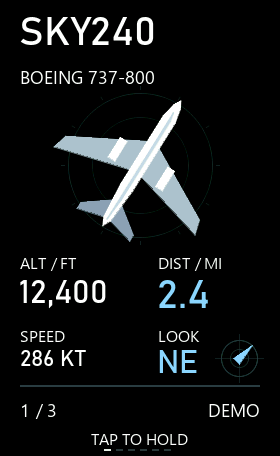
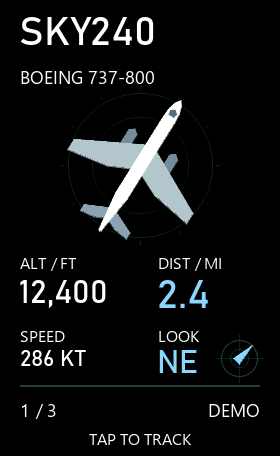
Draw class-specific aircraft silhouettes
Replace the three generic shapes with nine plan-view silhouettes built from
mirrored half outlines: narrow-body, wide-body, four-engine and regional jets,
business jet, twin and four-engine turboprops, light single prop and a
helicopter with tail boom, skids and rotor. Under-wing engines sit ahead of the
wing; props, T-tails and aft engine pods follow each class. Service styling
(military, police, rescue, fire) works on every shape.

silhouette() now classifies roughly 200 ICAO type codes and falls back to the
ADS-B emitter category. This fixes the C-130 (was a light single prop), King Air
and ATR (now twin turboprops) and Citations (now business jets). Tests cover
every class and the fallback. README gains a short note, an overview image and a
refreshed flight screenshot.

diff --git a/firmware/WidgetDeck/src/widgets/flight/sky_draw.h b/firmware/WidgetDeck/src/widgets/flight/sky_draw.h
@@ -5,6 +5,13 @@
 namespace sky {
 using ui::rgb;using ui::Point;using ui::Font;using ui::fontSmall;using ui::fontBody;using ui::fontHeading;using ui::fontNumber;using ui::fontTitle;
 static const uint16_t White=rgb(255,255,255),Muted=rgb(115,143,151),Dim=rgb(41,62,69),Accent=rgb(140,213,255);
+// Right-half wing/stabilizer outline: root at x=rx, leading/trailing edge y at the
+// root, tip and a trailing-edge kink. Used for planform drawing and service bands.
+struct PlanWing {
+  float rx,le0,tx,tle,tte,kx,kte,te0;
+  float le(float x)const{return le0+(tle-le0)*(x-rx)/(tx-rx);}
+  float te(float x)const{return x<kx?te0+(kte-te0)*(x-rx)/(kx-rx):kte+(tte-kte)*(x-kx)/(tx-kx);}
+};
 class Canvas:public ui::Canvas {
  public:
   using ui::Canvas::Canvas;
@@ -35,50 +42,85 @@ class Canvas:public ui::Canvas {
     }
   }
   void plane(int kind,Role service=Role::Standard,float cx=140) {
-    // Category silhouettes, deliberately not presented as exact model drawings.
-    // Keep the large illustration composed consistently; the radar shows actual bearing.
-    float angle=32*float(Pi)/180;
-    auto shape=[&](const Point *pts,int n,uint16_t c){Point p[48];for(int i=0;i<n;i++)p[i]={cx+pts[i].x*cosf(angle)-pts[i].y*sinf(angle),165+pts[i].x*sinf(angle)+pts[i].y*cosf(angle)};polygon(p,n,c);};
+    // Plan-view silhouettes of each aircraft class (proportions follow typical
+    // types, but they are class drawings, not exact models). Every shape is built
+    // from a mirrored half outline so it stays symmetric. The radar shows bearing.
+    const float angle=32*float(Pi)/180,ca=cosf(angle),sa=sinf(angle);
+    auto rot=[&](float x,float y)->Point{return {cx+x*ca-y*sa,165+x*sa+y*ca};};
+    auto shape=[&](const Point *pts,int n,uint16_t c){Point p[48];for(int i=0;i<n;i++)p[i]=rot(pts[i].x,pts[i].y);polygon(p,n,c);};
+    auto mirror=[&](const Point *half,int n,uint16_t c){Point p[48];for(int i=0;i<n;i++){p[i]=half[i];p[2*n-1-i]={-half[i].x,half[i].y};}shape(p,2*n,c);};
+    auto stroke=[&](float x0,float y0,float x1,float y1,uint16_t c,int alpha=255){Point a=rot(x0,y0),b=rot(x1,y1);line(a.x,a.y,b.x,b.y,c,alpha);};
     bool special=service!=Role::Standard;
     uint16_t color=serviceColor(service),bodyColor=service==Role::Military?rgb(164,183,137):White;
-    uint16_t wingColor=service==Role::Military?rgb(119,140,108):rgb(178,201,208);
+    uint16_t wingColor=service==Role::Military?rgb(119,140,108):rgb(176,199,207);
+    uint16_t tailColor=special?color:rgb(136,163,176),engineColor=rgb(118,143,155),glassColor=rgb(84,112,125);
     auto marking=[&](float x,float y){
       if(service==Role::Military){Point star[10];for(int i=0;i<10;i++){float t=i*float(Pi)/5-float(Pi)/2,r=i%2?2.4f:5.8f;star[i]={x+cosf(t)*r,y+sinf(t)*r};}shape(star,10,White);}
       else if(service==Role::Rescue){const Point cross[]={{x-1.6f,y-5},{x+1.6f,y-5},{x+1.6f,y-1.6f},{x+5,y-1.6f},{x+5,y+1.6f},{x+1.6f,y+1.6f},{x+1.6f,y+5},{x-1.6f,y+5},{x-1.6f,y+1.6f},{x-5,y+1.6f},{x-5,y-1.6f},{x-1.6f,y-1.6f}};shape(cross,12,White);}
     };
     if(kind==2) {
-      const Point body[]={{0,-39},{10,-29},{12,-8},{7,13},{3,56},{-3,56},{-7,13},{-12,-8},{-10,-29}};
-      const Point rotor[]={{-76,-2.5f},{-76,2.5f},{76,2.5f},{76,-2.5f}};
-      const Point tail[]={{-20,48},{20,48},{20,51},{-20,51}};
-      if(special)for(int side:{-1,1}){Point skid[]={{float(side*18-1),-24},{float(side*18+1),-24},{float(side*18+1),22},{float(side*18-1),22}};shape(skid,4,wingColor);}
-      shape(tail,4,special?color:Muted);shape(body,9,bodyColor);
+      // Helicopter: cabin, tail boom, skids, tail rotor and a spinning main rotor.
+      const Point cabin[]={{0,-38},{6,-35},{9.5f,-26},{10,-8},{8,6},{4,18},{2.6f,24}};
+      const Point boom[]={{2.6f,18},{2.2f,58},{-2.2f,58},{-2.6f,18}};
+      const Point fin[]={{2.2f,48},{9,56},{9,60},{2.2f,58}};
+      for(int side:{-1,1}){stroke(side*13.f,-26,side*13.f,12,special?wingColor:Muted);stroke(side*13.f,-6,side*9.f,-6,Muted);}
+      mirror(cabin,7,bodyColor);shape(boom,4,bodyColor);shape(fin,4,tailColor);
+      stroke(7,50,7,66,Muted);
+      Point hub=rot(0,-6);circle(hub.x,hub.y,56,Muted,60);
+      {const float ux=.88f,uy=.47f,nx=-uy*1.7f,ny=ux*1.7f;
+       const Point blade[]={{-ux*54+nx,-6-uy*54+ny},{ux*54+nx,-6+uy*54+ny},{ux*54-nx,-6+uy*54-ny},{-ux*54-nx,-6-uy*54-ny}};shape(blade,4,Muted);}
       if(special){
-        const Point panel[]={{-9,-25},{9,-25},{11,-8},{-11,-8}};shape(panel,4,color);
-        const Point glass[]={{-5,-31},{0,-36},{5,-31},{7,-26},{-7,-26}};shape(glass,5,Dim);
-        if(service==Role::Fire){const Point tank[]={{-12,7},{12,7},{10,22},{-10,22}};shape(tank,4,color);}
-        marking(0,-17);
+        const Point panel[]={{-8,-22},{8,-22},{9,-8},{-9,-8}};shape(panel,4,color);
+        const Point glass[]={{-5,-33},{0,-37},{5,-33},{6,-27},{-6,-27}};shape(glass,5,glassColor);
+        if(service==Role::Fire){const Point tank[]={{-9,0},{9,0},{7,14},{-7,14}};shape(tank,4,color);}
+        marking(0,-15);
       }
-      shape(rotor,4,Muted);circle(cx,165,5,special?color:Accent);
-    } else if(kind==1) {
-      const Point body[]={{0,-61},{5,-49},{7,24},{3,61},{-3,61},{-7,24},{-5,-49}};
-      const Point wings[]={{-70,-15},{70,-15},{70,0},{-70,0}};
-      const Point tail[]={{-27,42},{27,42},{27,50},{-27,50}};
-      shape(wings,4,wingColor);shape(tail,4,special?color:Muted);shape(body,7,bodyColor);
-      if(special){
-        for(int side:{-1,1}){float x=side*47;Point band[]={{x-9,-15},{x+9,-15},{x+9,0},{x-9,0}};shape(band,4,color);marking(x,-7.5f);}
-        const Point stripe[]={{-6,14},{6,14},{5,28},{-5,28}};shape(stripe,4,color);
-      }
-      const Point prop[]={{-22,-54},{22,-54},{22,-52},{-22,-52}};shape(prop,4,Muted);
-    } else {
-      const Point wings[]={{-7,-24},{-79,15},{-83,30},{-6,9},{6,9},{83,30},{79,15},{7,-24}};
-      const Point tail[]={{-4,43},{-31,63},{-31,70},{0,62},{31,70},{31,63},{4,43}};
-      const Point body[]={{0,-76},{4,-69},{7,-54},{7,26},{4,63},{0,71},{-4,63},{-7,26},{-7,-54},{-4,-69}};
-      shape(wings,8,special?wingColor:rgb(168,194,204));shape(tail,7,special?color:rgb(136,163,176));
-      if(special)for(int side:{-1,1}){Point band[]={{float(side*37),-7},{float(side*58),4},{float(side*61),24},{float(side*40),18}};shape(band,4,color);marking(side*47,8);}
-      for(int side:{-1,1}){Point engine[]={{float(side*28-4),-13},{float(side*28+4),-13},{float(side*28+4),10},{float(side*28-4),10}};shape(engine,4,bodyColor);}
-      shape(body,10,bodyColor);const Point seam[]={{0,-62},{2,-53},{2,40},{0,63}};shape(seam,4,special?color:rgb(196,216,224));
-      if(special){const Point stripe[]={{-7,13},{7,13},{7,26},{-7,26}};shape(stripe,4,color);}
+      circle(hub.x,hub.y,5,special?color:Accent);
+      return;
     }
+    // Fixed-wing classes. Wing/stabilizer outlines give the right half; y grows
+    // toward the tail. Table order matches silhouette() in sky_data.h.
+    struct Nacelle{float x,y0,y1,r;bool prop;};
+    struct Spec{float hw,nose,tail,noseLen,tailLen,tip;PlanWing wing,stab;bool tTail;float noseProp;int nacelles;Nacelle nacelle[2];};
+    static const Spec specs[]={
+      /*0 narrow-body jet*/{6.5f,-76,76,22,40,1.4f,{6.5f,-20,70,13,25,28,18,8},{3,52,27,63,70,12,68,64},false,0,1,{{24,-28,-3,4.8f,false}}},
+      /*1 light single prop*/{6.f,-44,46,12,30,1.f,{4.8f,-14,58,-12,3,30,3.5f,4},{2,34,19,38,44,8,43,42},false,13,0,{}},
+      /*2 helicopter (drawn above)*/{},
+      /*3 wide-body twin jet*/{9,-86,90,26,48,1.6f,{9,-20,78,24,40,32,31,16},{4,60,30,76,84,14,80,78},false,0,1,{{28,-33,0,6.4f,false}}},
+      /*4 four-engine jet*/{9.5f,-90,92,26,50,1.6f,{9.5f,-22,80,32,50,36,38,22},{4,62,32,78,88,14,82,80},false,0,2,{{26,-34,-3,5.4f,false},{50,-16,13,5.2f,false}}},
+      /*5 regional jet*/{5.2f,-62,62,18,34,1.2f,{5.2f,-12,47,5,17,18,13,8},{2.2f,47,19,53,60,8,57,56},true,0,1,{{10.5f,24,46,4.f,false}}},
+      /*6 business jet*/{4.4f,-50,50,15,28,1.f,{4.4f,-8,42,10,21,16,15,8},{2,36,17,41,47,6,45,44},true,0,1,{{8.2f,18,36,3.4f,false}}},
+      /*7 twin turboprop*/{5.5f,-60,60,16,34,1.3f,{5.5f,-12,60,-8,3,24,7,8},{2.5f,46,24,50,57,10,56,54},true,0,1,{{22,-30,8,4.2f,true}}},
+      /*8 four-engine turboprop*/{8,-66,70,18,36,3,{8,-14,72,-10,8,28,10,6},{3,52,26,58,68,12,64,62},true,0,2,{{24,-32,4,4.4f,true},{44,-30,6,4.4f,true}}}
+    };
+    const Spec &s=specs[kind>=0&&kind<9&&kind!=2?kind:0];
+    auto wingShape=[&](const PlanWing &w,uint16_t c){const Point h[5]={{w.rx,w.le0},{w.tx,w.tle},{w.tx,w.tte},{w.kx,w.kte},{w.rx,w.te0}};mirror(h,5,c);};
+    auto nacelles=[&](){
+      for(int i=0;i<s.nacelles;i++)for(int side:{-1,1}){
+        const Nacelle &n=s.nacelle[i];float x=side*n.x;
+        const Point pod[]={{x-n.r,n.y0+n.r*.8f},{x,n.y0},{x+n.r,n.y0+n.r*.8f},{x+n.r,n.y1},{x-n.r,n.y1}};
+        shape(pod,5,engineColor);
+        if(n.prop)stroke(x-n.r*2.f,n.y0-1,x+n.r*2.f,n.y0-1,Muted);
+      }
+    };
+    const bool under=kind==0||kind==3||kind==4;  // under-wing jet engines only show ahead of the wing
+    if(!s.tTail)wingShape(s.stab,tailColor);
+    if(under)nacelles();
+    wingShape(s.wing,wingColor);
+    if(special){ // service-colored wing bands and markings
+      float x0=s.wing.rx+(s.wing.tx-s.wing.rx)*.45f,x1=s.wing.rx+(s.wing.tx-s.wing.rx)*.8f;
+      for(int side:{-1,1}){const Point band[]={{side*x0,s.wing.le(x0)},{side*x1,s.wing.le(x1)},{side*x1,s.wing.te(x1)},{side*x0,s.wing.te(x0)}};shape(band,4,color);}
+      float xm=(x0+x1)/2,ym=(s.wing.le(xm)+s.wing.te(xm))/2;marking(-xm,ym);marking(xm,ym);
+    }
+    if(!under)nacelles();
+    const Point body[]={{0,s.nose},{s.hw*.5f,s.nose+s.noseLen*.18f},{s.hw*.88f,s.nose+s.noseLen*.55f},{s.hw,s.nose+s.noseLen},{s.hw,s.tail-s.tailLen},{s.tip,s.tail},{0,s.tail+1}};
+    mirror(body,7,bodyColor);
+    if(s.tTail)wingShape(s.stab,tailColor);
+    if(s.noseProp>0)stroke(-s.noseProp,s.nose-2,s.noseProp,s.nose-2,Muted);
+    // Cockpit windscreen marks the nose.
+    const Point glass[]={{-s.hw*.55f,s.nose+s.noseLen*.62f},{0,s.nose+s.noseLen*.5f},{s.hw*.55f,s.nose+s.noseLen*.62f},{s.hw*.4f,s.nose+s.noseLen*.8f},{-s.hw*.4f,s.nose+s.noseLen*.8f}};
+    shape(glass,5,glassColor);
+    if(special){const float y=s.wing.te0+6;const Point stripe[]={{-s.hw,y},{s.hw,y},{s.hw,y+9},{-s.hw,y+9}};shape(stripe,4,color);}
   }
   void radar(float bearing) {
     int cx=239,cy=358;circle(cx,cy,18,Dim);circle(cx,cy,9,Dim,140);

diff --git a/firmware/WidgetDeck/src/widgets/flight/sky_data.h b/firmware/WidgetDeck/src/widgets/flight/sky_data.h
@@ -6,6 +6,7 @@
 #include <string.h>
 #include <stdlib.h>
 #include <algorithm>
+#include <initializer_list>
 
 namespace sky {
 constexpr int Width=280, Height=456, MaxAircraft=24;
@@ -52,17 +53,27 @@ inline const char *model(const Aircraft &a) {
   for(const auto &m:models)if(!strcmp(a.type,m.code))return m.name;
   return a.type[0]?a.type:"AIRCRAFT TYPE UNKNOWN";
 }
+// Silhouette classes, in the order drawn by Canvas::plane().
+enum Shape { NarrowJet=0, LightProp=1, Helicopter=2, WideJet=3, QuadJet=4, RegionalJet=5, BusinessJet=6, Turboprop=7, Transport=8 };
+inline bool typeIn(const Aircraft &a,std::initializer_list<const char *> types) {
+  for(const char *type:types)if(!strcmp(a.type,type))return true;
+  return false;
+}
 inline int silhouette(const Aircraft &a) {
-  if(!strcmp(a.category,"A7"))return 2;
-  static const char *helicopters[]={"R22","R44","R66","AS50","AS55","AS65","EC30","EC35","EC45","H145","H60","S70","S76","S92","S64","B06","B407","B412","B429","B430","B212","B205","B47","H47","H53","A109","A119","A139","A169","A189","MD52","MD60"};
-  for(const char *type:helicopters)if(!strcmp(a.type,type))return 2;
-  static const char *props[]={"C150","C152","C172","C182","C206","C208","C210","C310","C340","C414","C421","SR20","SR22","PC12","PC6","BE20","BE30","BE9L","BE10","BE58","C130","C30J","P3","DHC6","DH8A","DH8B","DH8C","DH8D","AT43","AT45","AT46","AT72","AT73","AT75","AT76","GA8","PA28","PA31","PA32","PA34","PA46","AT8T","CL2T"};
-  for(const char *type:props)if(!strcmp(a.type,type))return 1;
-  // A1 means light weight, which can also be a jet (e.g. a Citation).
-  static const char *lightJets[]={"C510","C525","C25A","C25B","C25C","EA50","SF50","HDJT"};
-  for(const char *type:lightJets)if(!strcmp(a.type,type))return 0;
-  if(!strcmp(a.category,"A1"))return 1;
-  return 0;
+  if(!strcmp(a.category,"A7"))return Helicopter;
+  if(typeIn(a,{"R22","R44","R66","AS50","AS55","AS65","EC30","EC35","EC45","H145","H60","S70","S76","S92","S64","B06","B407","B412","B429","B430","B212","B205","B47","H47","H53","A109","A119","A139","A169","A189","MD52","MD60"}))return Helicopter;
+  if(typeIn(a,{"B741","B742","B743","B744","B74S","B748","A342","A343","A345","A346","A388","A124","IL96","IL76","C17","K35R","B52","B703"}))return QuadJet;
+  if(typeIn(a,{"C130","C30J","P3","L100","A400","AN12"}))return Transport;
+  if(typeIn(a,{"A306","A30B","A310","A332","A333","A338","A339","A359","A35K","B762","B763","B764","B772","B773","B77L","B77W","B788","B789","B78X","MD11","DC10","L101"}))return WideJet;
+  if(typeIn(a,{"E135","E145","E170","E75L","E75S","E175","E190","E195","E290","E295","CRJ1","CRJ2","CRJ7","CRJ9","CRJX"}))return RegionalJet;
+  if(typeIn(a,{"C25A","C25B","C25C","C25M","C500","C501","C510","C525","C550","C560","C56X","C680","C68A","C700","C750","CL30","CL35","CL60","GLF2","GLF3","GLF4","GLF5","GLF6","GALX","G150","G280","FA10","FA20","FA50","FA7X","FA8X","F900","F2TH","LJ31","LJ35","LJ40","LJ45","LJ55","LJ60","LJ70","LJ75","E50P","E55P","EA50","SF50","HDJT","H25A","H25B","PRM1","ASTR","BE40","PC24"}))return BusinessJet;
+  if(typeIn(a,{"AT43","AT44","AT45","AT46","AT72","AT73","AT75","AT76","DH8A","DH8B","DH8C","DH8D","SF34","JS31","JS32","JS41","B190","BE20","BE30","BE9L","BE10","BE99","SW4","E120","DHC6","D328","F50","F27","BE58","PA31","PA34","C310","C340","C414","C421","DA42","P180"}))return Turboprop;
+  if(typeIn(a,{"C150","C152","C172","C182","C206","C208","C210","SR20","SR22","PC12","PC6","GA8","PA28","PA32","PA46","AT8T","CL2T"}))return LightProp;
+  // No known type: use the ADS-B emitter category (A1 light, A2 small, A3 large, A4 high-vortex, A5 heavy).
+  if(!strcmp(a.category,"A1"))return LightProp;
+  if(!strcmp(a.category,"A2"))return RegionalJet;
+  if(!strcmp(a.category,"A5"))return WideJet;
+  return NarrowJet;
 }
 inline const char *callsign(const Aircraft &a) {return a.flight[0]?a.flight:a.registration[0]?a.registration:a.hex;}
 

diff --git a/tests/sky_test.cpp b/tests/sky_test.cpp
@@ -87,9 +87,20 @@ int main(int argc,char **argv) {
   assert(role(identitySample("\"emergency\":7700"))==Role::Standard);
   assert(!airline(identitySample("\"flight\":\"UAL12\",\"dbFlags\":1")));
   assert(!airline(identitySample("\"flight\":\"UAL12\",\"emergency\":\"lifeguard\"")));
-  for(const char *type:{"B06","EC45","H60","S70"}){Aircraft a;strcpy(a.type,type);assert(silhouette(a)==2);}
-  for(const char *type:{"C206","GA8","BE20","C130","AT8T"}){Aircraft a;strcpy(a.type,type);assert(silhouette(a)==1);}
-  Aircraft lightJet;strcpy(lightJet.type,"C510");strcpy(lightJet.category,"A1");assert(silhouette(lightJet)==0);
+  auto shapeOf=[](const char *type,const char *category=""){Aircraft a;strcpy(a.type,type);strcpy(a.category,category);return silhouette(a);};
+  for(const char *type:{"B06","EC45","H60","S70"})assert(shapeOf(type)==Helicopter);
+  assert(shapeOf("","A7")==Helicopter);
+  for(const char *type:{"C206","GA8","AT8T","C172","SR22","PC12"})assert(shapeOf(type)==LightProp);
+  for(const char *type:{"B738","A320","A21N","B752","B38M"})assert(shapeOf(type)==NarrowJet);
+  for(const char *type:{"B77W","B789","A359","A333","B763"})assert(shapeOf(type)==WideJet);
+  for(const char *type:{"B744","B748","A388","C17"})assert(shapeOf(type)==QuadJet);
+  for(const char *type:{"E175","CRJ7","E190","E145"})assert(shapeOf(type)==RegionalJet);
+  for(const char *type:{"C510","C25A","GLF5","FA7X","E55P"})assert(shapeOf(type,"A1")==BusinessJet);
+  for(const char *type:{"BE20","AT72","DH8D","BE58","B190"})assert(shapeOf(type)==Turboprop);
+  for(const char *type:{"C130","C30J","P3","A400"})assert(shapeOf(type)==Transport);
+  // Unknown types fall back to the ADS-B emitter category.
+  assert(shapeOf("ZZZZ","A1")==LightProp&&shapeOf("ZZZZ","A2")==RegionalJet&&shapeOf("ZZZZ","A3")==NarrowJet);
+  assert(shapeOf("ZZZZ","A4")==NarrowJet&&shapeOf("ZZZZ","A5")==WideJet&&shapeOf("")==NarrowJet);
 #endif
 
   std::vector<uint16_t> memory(Width*Height+2,0xdead);Canvas canvas(memory.data()+1);

diff --git a/README.md b/README.md
@@ -89,6 +89,10 @@ These are the states in [EIA's weekly regular gasoline price table](https://www.
 
 The **default is the original web-based ADSB.lol feed**. Select `flight`, provide Wi-Fi and location, and no ADS-B account or extra file is needed. The display queries nearby aircraft through HTTPS. The range is set by `radius_miles`. Public positions expire after 60 seconds and the screen identifies stale data.
 
+The aircraft illustration is a simple plan-view silhouette chosen from the ICAO type code (or the ADS-B emitter category when the type is unknown): narrow-body jet, wide-body jet, four-engine jet, regional jet, business jet, twin turboprop, four-engine turboprop, light propeller plane and helicopter. They show the right class and proportions, not an exact model.
+
+![Aircraft silhouettes](screenshots/aircraft-types.png)
+
 To use a **local MeshPoint ADS-B receiver**, first start its ADS-B listener and enable a `viewer` account in MeshPoint. Copy `adsb.example.txt` to the display SD card root as `adsb.txt`; set the Pi's private IPv4 address, dashboard and receiver ports, and viewer password. Restart the display. MeshPoint data travels over local Wi-Fi, not Meshtastic radio. The widget polls the receiver's `data.json` and the dashboard status endpoint; it also uses ADSB.lol for optional aircraft identity metadata when internet is available. It does not substitute public positions when the local receiver is unavailable. The regional airport list used for automatic circling detection is Bay Area specific; update `sky_airports.h` if you need that feature elsewhere.
 
 Alternatively, keep `adsb.txt` off the card and provision over USB after filling a private local copy:
